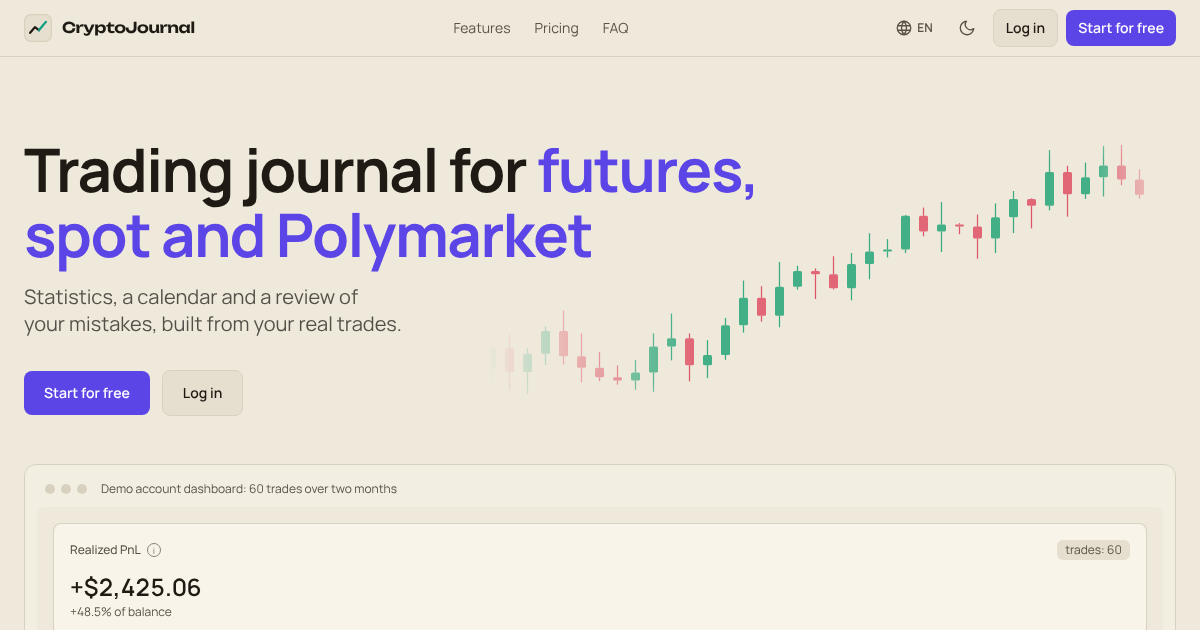
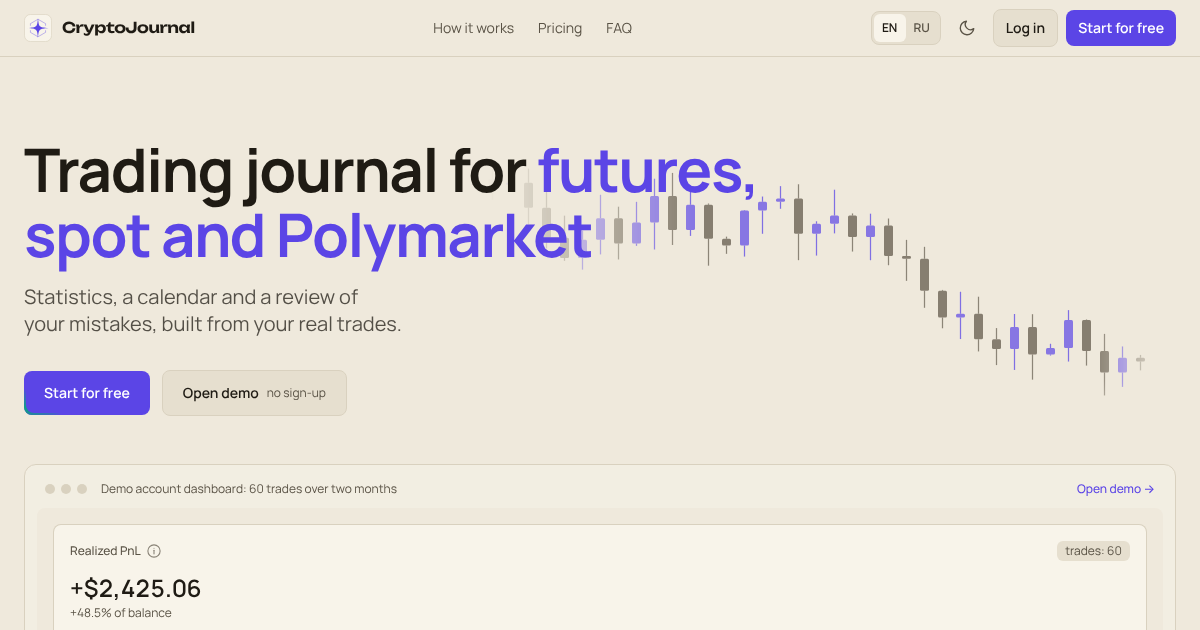
«Биржи»: «Орбита» без списка подключений, по центру и крупнее; в центре орбиты и на главной — новый значок; og.png с новым логотипом
Claude-Session: https://claude.ai/code/session_01TMhmn9yw8cTrbND2CHXPYQ

diff --git a/src/features/connections/LinkedOrbit.tsx b/src/features/connections/LinkedOrbit.tsx
@@ -1,119 +1,43 @@
 /**
  * «Подключённые биржи» на странице «Биржи» (владелец 19.11.2026: «1 убрать и поменять на 2» — вместо «Сделки собирают кривую»
- * тот же блок, что без подключений, — «Орбита» в три колонки):
+ * тот же блок, что без подключений, — «Орбита»):
  *  - слева «Орбита»: все биржи обычные, подключённые биржи и кошельки чуть подсвечены;
- *  - в середине — «Подключено: Bybit, OKX…», как приходят сделки (сервер каждые 3 ч на Pro Plus / пока сайт открыт) и «Подключить ещё»;
- *  - справа — вместо шагов «как подключить» строки подключений: логотип, статус (работает · сделок за всё время / синхронизация /
- *    ошибка / на паузе сверх тарифа), нажатие — панель биржи (статус, «Обновить», «Отключить»).
- * Сделки — за всё время, по API и файлом (двойники «файл + API» склеены — lib/calc/curve.ts buildCurve). Одна биржа двумя ключами — одна строка.
+ *  - справа — «Подключено: Bybit, OKX…», как приходят сделки (сервер каждые 3 ч на Pro Plus / пока сайт открыт) и «Подключить ещё».
+ * Блок по центру, орбита крупнее (владелец 20.11.2026: «ближе к центру… чуть-чуть больше»).
+ * Списка подключений справа нет (владелец 20.11.2026: «вот это отсюда убрать») — биржа открывается карточкой в сетке ниже,
+ * проблемы с ключом — строками под блоком (ConnectionsCard).
  */
-import { useMemo, useState, type CSSProperties } from 'react'
+import { useMemo } from 'react'
 import { fmt, useT } from '@/i18n'
-import { useTrades } from '@/features/trades/api'
 import { exchangeName } from '@/lib/exchanges'
-import { buildCurve } from '@/lib/calc/curve'
 import { useMediaQuery } from '@/lib/useMediaQuery'
 import { Button } from '@/components/ui/Button'
-import { ExchangeLogo } from '@/components/ExchangeLogo'
 import { Orbit } from '@/components/fx/Orbit'
-import { Shimmer } from '@/components/fx/Shimmer'
-import { shortKey } from '@/lib/sync/run'
-import { PORTFOLIO_ONLY, useSyncingIds, type Connection } from './api'
+import type { Connection } from './api'
 
-type State = 'syncing' | 'error' | 'paused' | 'ok'
-
-export function LinkedOrbit({
-  conns,
-  active,
-  pro,
-  onOpen,
-  onAdd,
-}: {
-  conns: Connection[]
-  active: Set<string>
-  pro: boolean
-  onOpen: (exchange: string) => void
-  onAdd: () => void
-}) {
+export function LinkedOrbit({ conns, pro, onAdd }: { conns: Connection[]; pro: boolean; onAdd: () => void }) {
   const t = useT()
   const c = t.connections
-  const syncing = useSyncingIds()
   const wide = useMediaQuery('(min-width: 1280px)')
   const mid = useMediaQuery('(min-width: 768px)')
-  // по одной строке на биржу / кошелёк (одна биржа двумя ключами — одна строка), в порядке подключения
+  // одна биржа двумя ключами — одна; в порядке подключения
   const ids = useMemo(() => [...new Set(conns.map((cn) => cn.exchange))], [conns])
-  const tradeIds = useMemo(() => ids.filter((ex) => !PORTFOLIO_ONLY.has(ex)), [ids])
-  const [range] = useState({ from: null, to: null })
-  const { data: trades } = useTrades(range, tradeIds.length > 0)
-  const counts = useMemo(() => buildCurve(trades ?? [], tradeIds).perExchange, [trades, tradeIds])
   const lit = useMemo(() => new Set(ids), [ids])
-
-  // статус — по подключениям этой биржи: идёт синхронизация → все на паузе → ошибка у всех работающих → работает
-  const stateOf = (ex: string): State => {
-    const list = conns.filter((cn) => cn.exchange === ex)
-    if (list.some((cn) => syncing.has(cn.id))) return 'syncing'
-    const on = list.filter((cn) => active.has(cn.id))
-    if (!on.length) return 'paused'
-    if (on.every((cn) => cn.last_error)) return 'error'
-    return 'ok'
-  }
   const names = ids.slice(0, 3).map((ex) => exchangeName(ex, ex)).join(', ') + (ids.length > 3 ? ` ${fmt(c.linked.more, { n: ids.length - 3 })}` : '')
 
   return (
     <div
       data-linked-orbit
-      className="grid items-center justify-items-center gap-6 rounded-xl border border-border bg-surface px-4 py-6 sm:px-8 md:grid-cols-[auto_minmax(0,1fr)] md:justify-items-start xl:grid-cols-[auto_minmax(0,30rem)_minmax(0,1fr)] xl:gap-12 xl:py-8"
+      className="grid items-center justify-items-center gap-6 rounded-xl border border-border bg-surface px-4 py-6 sm:px-8 md:grid-cols-[auto_minmax(0,32rem)] md:justify-center md:justify-items-start md:gap-10 xl:gap-16 xl:py-8"
     >
-      <Orbit size={wide ? 340 : mid ? 280 : 220} lit={lit} />
-      <div className="flex max-w-md flex-col items-center gap-3 text-center md:items-start md:text-left">
+      <Orbit size={wide ? 380 : mid ? 320 : 250} lit={lit} />
+      <div className="flex max-w-xl flex-col items-center gap-3 text-center md:items-start md:text-left">
         <p className="font-display text-xl font-semibold xl:text-2xl">{fmt(c.linked.title, { names })}</p>
         <p className="text-sm text-muted xl:text-base">{pro ? c.linked.textPro : c.linked.textFree}</p>
         <Button variant="secondary" className="mt-1" onClick={onAdd}>
           {c.linked.cta}
         </Button>
       </div>
-      <ul aria-label={c.linked.list} className="grid w-full gap-3 md:col-span-2 md:grid-cols-2 xl:col-span-1 xl:grid-cols-1">
-        {ids.map((ex, i) => {
-          const st = stateOf(ex)
-          const wallet = PORTFOLIO_ONLY.has(ex)
-          const n = counts.get(ex)
-          const addr = conns.find((cn) => cn.exchange === ex)?.api_key ?? ''
-          return (
-            <li key={ex} data-linked={ex} data-state={st} className="rise" style={{ '--i': i + 2 } as CSSProperties}>
-              <button
-                type="button"
-                onClick={() => onOpen(ex)}
-                aria-label={fmt(c.curve.open, { name: exchangeName(ex, ex) })}
-                className={`flex w-full items-center gap-3 rounded-lg border border-border bg-surface-2/50 p-3 text-left transition-colors hover:bg-surface-2 focus-visible:outline-2 focus-visible:outline-primary ${st === 'paused' ? 'opacity-60' : ''}`}
-              >
-                <ExchangeLogo id={ex} className="size-9 shrink-0 rounded-lg" />
-                <span className="min-w-0 flex-1">
-                  <span className="block text-sm font-semibold">{exchangeName(ex, ex)}</span>
-                  <span className="flex items-center gap-1.5 text-xs text-muted">
-                    <i aria-hidden className={`size-1.5 shrink-0 rounded-full ${st === 'ok' ? 'bg-up' : st === 'error' ? 'bg-down' : st === 'syncing' ? 'bg-primary' : 'bg-muted'}`} />
-                    <span className="truncate">
-                      {st === 'syncing' ? (
-                        <Shimmer>{c.status.syncing}</Shimmer>
-                      ) : st !== 'ok' ? (
-                        c.status[st]
-                      ) : wallet ? (
-                        fmt(c.linked.wallet, { addr: shortKey(addr) })
-                      ) : n ? (
-                        fmt(c.curve.worksN, { n })
-                      ) : (
-                        c.curve.works
-                      )}
-                    </span>
-                  </span>
-                </span>
-                <span aria-hidden className="shrink-0 text-xs text-muted">
-                  {c.issueOpen} →
-                </span>
-              </button>
-            </li>
-          )
-        })}
-      </ul>
     </div>
   )
 }

diff --git a/src/components/fx/Orbit.tsx b/src/components/fx/Orbit.tsx
@@ -1,11 +1,12 @@
 /**
- * №5 «Орбита» (образец — 21st.dev orbiting-circles): вокруг логотипа дневника на двух орбитах медленно кружат биржи.
+ * №5 «Орбита» (образец — 21st.dev orbiting-circles): вокруг значка дневника (LogoMark) на двух орбитах медленно кружат биржи.
  * Кольцо вращается (transform rotate), значки — в обратную сторону, поэтому всегда стоят ровно. Без мигания.
  * «Биржи» без подключений, первый вход; с подключениями (владелец 19.11.2026) — lit: все биржи обычные, подключённая — чуть подсвечена
  * (тонкая рамка и лёгкий ореол цвета кнопок; «не надо излишков» — без приглушения остальных); подключённые кошельки (EVM / Solana) встают на внутреннюю орбиту.
  * Линии орбит — заметные (muted, владелец 19.11.2026: «сделай их более яркими»).
  */
 import { ExchangeLogo } from '@/components/ExchangeLogo'
+import { LogoMark } from '@/components/Logo'
 
 const OUTER = ['bybit', 'binance', 'okx', 'bingx', 'bitget']
 const INNER = ['hyperliquid', 'polymarket', 'mexc']
@@ -43,12 +44,8 @@ export function Orbit({ size = 260, lit }: { size?: number; lit?: ReadonlySet<st
       <div className="absolute top-1/2 left-1/2 -translate-1/2 rounded-full border-[1.5px] border-dashed border-muted/80" style={{ width: inner * 2, height: inner * 2 }} />
       <Ring items={OUTER} radius={outer} lit={lit} />
       <Ring items={innerItems} radius={inner} reverse lit={lit} />
-      <div className="absolute top-1/2 left-1/2 grid size-13 -translate-1/2 place-items-center rounded-2xl border border-primary/50 bg-primary/12 text-primary">
-        <svg viewBox="0 0 24 24" className="size-6" fill="none" stroke="currentColor" strokeWidth={2} strokeLinecap="round" strokeLinejoin="round">
-          <path d="M3 17l5-5 4 4 8-9" />
-          <path d="M14 7h6v6" />
-        </svg>
-      </div>
+      {/* в центре — значок дневника, тот же, что у названия CryptoJournal (владелец 20.11.2026) */}
+      <LogoMark className="absolute top-1/2 left-1/2 size-14 -translate-1/2" />
     </div>
   )
 }

diff --git a/src/i18n/ru.ts b/src/i18n/ru.ts
@@ -1182,20 +1182,13 @@ export const ru = {
     ],
     walletsTitle: 'Кошельки (только портфель):',
     issueOpen: 'Открыть',
-    curve: {
-      works: 'работает',
-      worksN: 'работает · сделок: {n}',
-      open: '{name}: подключение и настройки',
-    },
     /** «Орбита» с подключёнными биржами (владелец 19.11.2026: вместо «Сделки собирают кривую») */
     linked: {
       title: 'Подключено: {names}',
       more: 'и ещё {n}',
-      textPro: 'Сделки и балансы приходят сами — на сервере каждые 3 часа, даже когда сайт закрыт. Нажми на биржу в списке: статус, обновление, отключение.',
-      textFree: 'Сделки и балансы приходят сами, пока сайт открыт. Нажми на биржу в списке: статус, обновление, отключение.',
+      textPro: 'Сделки и балансы приходят сами — на сервере каждые 3 часа, даже когда сайт закрыт. Статус, обновление и отключение — в карточке биржи ниже.',
+      textFree: 'Сделки и балансы приходят сами, пока сайт открыт. Статус, обновление и отключение — в карточке биржи ниже.',
       cta: 'Подключить ещё',
-      list: 'Подключённые биржи и кошельки',
-      wallet: 'кошелёк · {addr}',
     },
     hubCaption: 'Подключено бирж: {n} · огоньки — сделки, которые приходят в дневник сами',
     searching: 'Ищем новые сделки…',

diff --git a/src/components/fx/BeamHub.tsx b/src/components/fx/BeamHub.tsx
@@ -5,6 +5,7 @@
  * При «уменьшить движение» огоньки стоят (видна часть линии).
  */
 import { ExchangeLogo } from '@/components/ExchangeLogo'
+import { LogoMark } from '@/components/Logo'
 import { useId } from 'react'
 
 export type HubNode = { id: string; mono: string; name: string; on: boolean; fast?: boolean; note?: string }
@@ -82,12 +83,8 @@ export function BeamHub({ nodes, caption, className = '' }: { nodes: HubNode[]; 
             </div>
           )
         })}
-        <div className="absolute top-1/2 left-1/2 grid size-16 -translate-1/2 place-items-center rounded-2xl border border-primary/60 bg-primary/14 text-primary sm:size-20">
-          <svg viewBox="0 0 24 24" className="size-7 sm:size-8" fill="none" stroke="currentColor" strokeWidth={2} strokeLinecap="round" strokeLinejoin="round" aria-hidden>
-            <path d="M3 17l5-5 4 4 8-9" />
-            <path d="M14 7h6v6" />
-          </svg>
-        </div>
+        {/* в центре — значок дневника, как у названия CryptoJournal (владелец 20.11.2026) */}
+        <LogoMark className="absolute top-1/2 left-1/2 size-16 -translate-1/2 sm:size-20" />
       </div>
       {caption && <p className="mt-2 text-center text-xs text-muted">{caption}</p>}
     </div>

diff --git a/src/features/connections/ConnectionsCard.tsx b/src/features/connections/ConnectionsCard.tsx
@@ -210,9 +210,9 @@ export function ConnectionsCard({ onPickFile }: { onPickFile?: (exchange: string
         </div>
       ) : (
         <>
-        {/* подключения есть — та же «Орбита» (владелец 19.11.2026 вместо «Сделки собирают кривую»): подключённые ярко,
-            справа — их строки со статусом, нажатие — панель биржи. Кошельки — тоже строками */}
-        <LinkedOrbit conns={conns} active={active} pro={pro} onOpen={setPanel} onAdd={() => setPanel('picker')} />
+        {/* подключения есть — та же «Орбита» (владелец 19.11.2026 вместо «Сделки собирают кривую»): подключённые чуть подсвечены;
+            списка подключений справа нет (владелец 20.11.2026) — биржа открывается карточкой в сетке ниже */}
+        <LinkedOrbit conns={conns} pro={pro} onAdd={() => setPanel('picker')} />
         {/* ключ не работает / скоро истечёт — видно сразу, без нажатий */}
         {issues.length > 0 && (
           <ul className="flex flex-col gap-1.5">

diff --git a/src/i18n/en.ts b/src/i18n/en.ts
@@ -1138,19 +1138,12 @@ export const en: Dict = {
     ],
     walletsTitle: 'Wallets (portfolio only):',
     issueOpen: 'Open',
-    curve: {
-      works: 'working',
-      worksN: 'working · trades: {n}',
-      open: '{name}: connection and settings',
-    },
     linked: {
       title: 'Connected: {names}',
       more: 'and {n} more',
-      textPro: 'Trades and balances arrive on their own — on the server every 3 hours, even when the site is closed. Click an exchange in the list: status, refresh, disconnect.',
-      textFree: 'Trades and balances arrive on their own while the site is open. Click an exchange in the list: status, refresh, disconnect.',
+      textPro: 'Trades and balances arrive on their own — on the server every 3 hours, even when the site is closed. Status, refresh and disconnect are in the exchange card below.',
+      textFree: 'Trades and balances arrive on their own while the site is open. Status, refresh and disconnect are in the exchange card below.',
       cta: 'Connect another',
-      list: 'Connected exchanges and wallets',
-      wallet: 'wallet · {addr}',
     },
     hubCaption: 'Exchanges connected: {n} · the lights are trades flowing into your journal',
     searching: 'Looking for new trades…',

diff --git a/CLAUDE.md b/CLAUDE.md
@@ -145,9 +145,9 @@ src/
                        (filters.ts: fromParams / toParams, ?side=long&result=win&sort=pnl&dir=asc); сортировка кликом по заголовку (дата, пара, размер, PnL, R, «В сделке»; aria-sort, ▲▼; на телефоне — выбор),
                        по уже загруженным сделкам, порции по 100 — после сортировки; «В сделке» — formatDuration (lib/format.ts); «Биржа» — только если бирж больше одной;
                        галочки у строк (на телефоне — слева в карточке) → панель действий снизу: «Назначить сетап», «Удалить» (окно подтверждения), useBulkSetSetup / useBulkDelete — пачками по 100 id),
-                       import (пункт меню «Биржи», адрес /import: сверху «Подключённые биржи» — «Орбита» в три колонки и с подключениями (LinkedOrbit, владелец 19.11.2026 вместо «Сделки собирают кривую»: на орбите все биржи обычные, подключённые чуть подсвечены (рамка primary/60 + лёгкий ореол), линии орбит — заметные (muted); «Подключено: Bybit, OKX и ещё N» + «Подключить ещё»; справа строки подключений — биржи и кошельки: статус, «работает · сделок: N» за всё время, нажатие — панель биржи), под ней строки проблем (ключ не работает / скоро истечёт → панель биржи);
+                       import (пункт меню «Биржи», адрес /import: сверху «Подключённые биржи» — «Орбита» в три колонки и с подключениями (LinkedOrbit, владелец 19.11.2026 вместо «Сделки собирают кривую»: на орбите все биржи обычные, подключённые чуть подсвечены (рамка primary/60 + лёгкий ореол), линии орбит — заметные (muted), в центре — значок LogoMark; блок по центру, орбита 380 / 320 / 250px; «Подключено: Bybit, OKX и ещё N» + «Подключить ещё»; списка подключений справа НЕТ (владелец 20.11.2026) — биржа открывается карточкой в сетке), под ней строки проблем (ключ не работает / скоро истечёт → панель биржи);
                        в шапке «Обновить» (все работающие разом) и «+ Подключить». Отдельных карточек подключений на странице НЕТ (владелец 17.11.2026) — карточка подключения (ConnectionTile)
-                       живёт в панели биржи (ExchangePanel manage, «Подключено» сверху, ниже «Подключить ещё»); открывается нажатием на строку в «Орбите», на строку проблемы или на карточку в сетке. В карточке:
+                       живёт в панели биржи (ExchangePanel manage, «Подключено» сверху, ниже «Подключить ещё»); открывается нажатием на строку проблемы или на карточку в сетке. В карточке:
                        название, метка, пилюля статуса data-status («Работает» --color-up, «Ошибка» --color-down + подсказка из словаря и «Ответ биржи: …» из last_error,
                        «На паузе» серый — сверх тарифа, «Синхронизация…» — useSyncing(id), в т.ч. автосинхронизация), «Обновлено 20 мин назад», на Pro Plus «следующее примерно через …» (last_sync_at + 3 ч),
                        «Обновить» и «Отключить» (ConfirmDialog); ниже — «сначала биржа, потом способ» (connections/ExchangeGrid.tsx, 15.11.2026): сетка карточек всех бирж
